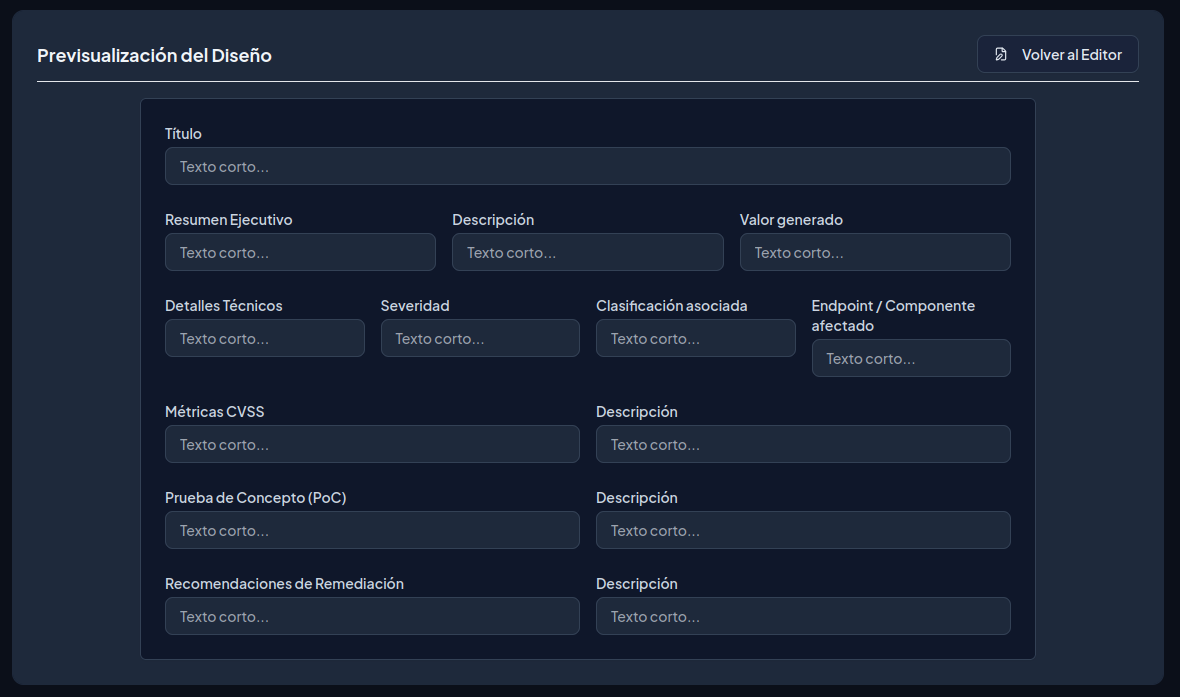
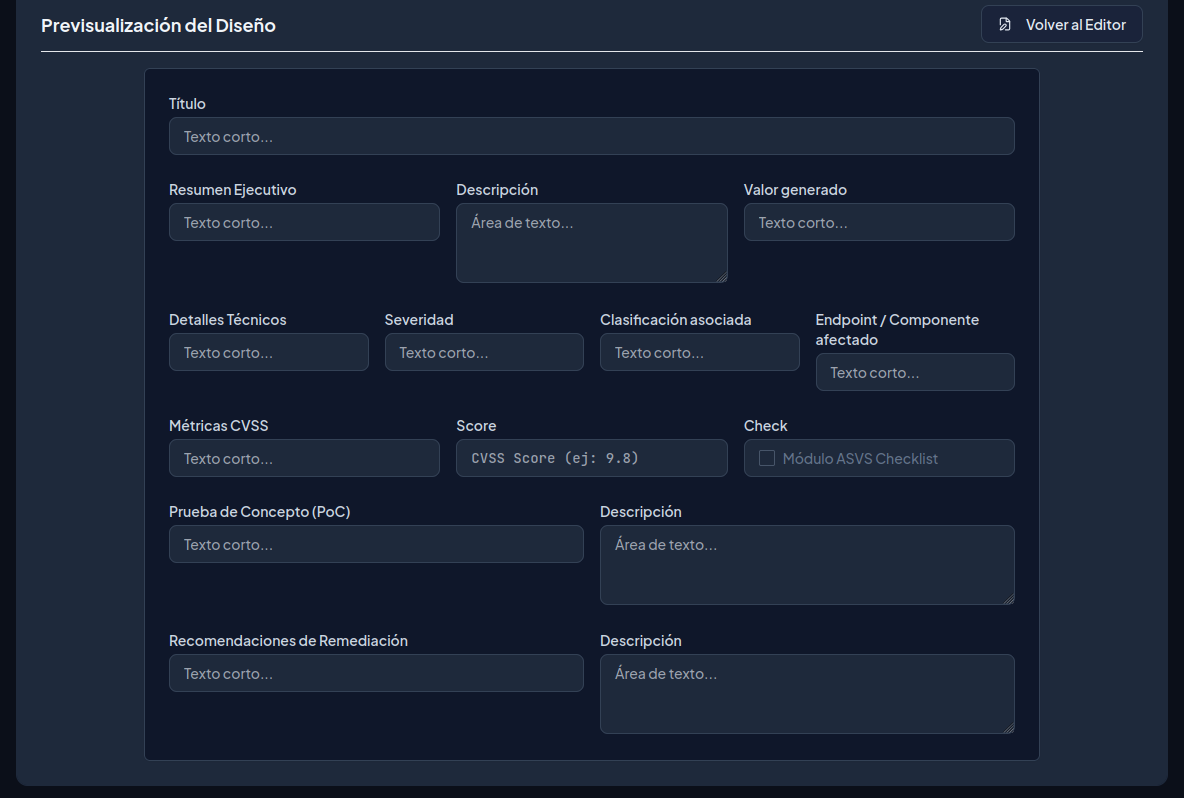
Modulo IV Objetivo 3

diff --git a/Modulo_II/Modulo_IV/Objetivo_3_Armado_de_Plantilla_Base_de_Reporte/Objetivo_3_Armado_de_Plantilla_Base_de_Reporte.md b/Modulo_II/Modulo_IV/Objetivo_3_Armado_de_Plantilla_Base_de_Reporte/Objetivo_3_Armado_de_Plantilla_Base_de_Reporte.md
@@ -18,13 +18,8 @@ Como pentester, tu entregable final es el reporte. Diseña y personaliza tu prop
   * **Endpoint / Componente afectado:** URL exacta, parámetro vulnerable o librería comprometida.
 
 ### Métricas CVSS
-* **Descripción:** Evaluación estandarizada del riesgo mediante el vector y la puntuación **CVSS v3.1 / v4.0**. Desglosa métricas clave como:
-  * **Vector de Ataque (AV):** Red, Adyacente, Local, Físico.
-  * **Complejidad de Ataque (AC):** Baja o Alta.
-  * **Privilegios Requeridos (PR):** Ninguno, Bajos, Altos.
-  * **Interacción del Usuario (UI):** Ninguna o Requerida.
-  * **Alcance (S):** Cambiado o Sin Cambios.
-  * **Impacto:** Confidencialidad (C), Integridad (I) y Disponibilidad (A).
+* **Score:** Calculadora para el Score.
+* **Check:** Modulo ASVS.
 
 ### Prueba de Concepto (PoC)
 * **Descripción:** Demostración práctica y replicable que comprueba la existencia real de la vulnerabilidad. Incluye peticiones HTTP/HTTPS (Headers, Payloads, Responses), capturas de pantalla, scripts exploit y comandos ejecutados.
